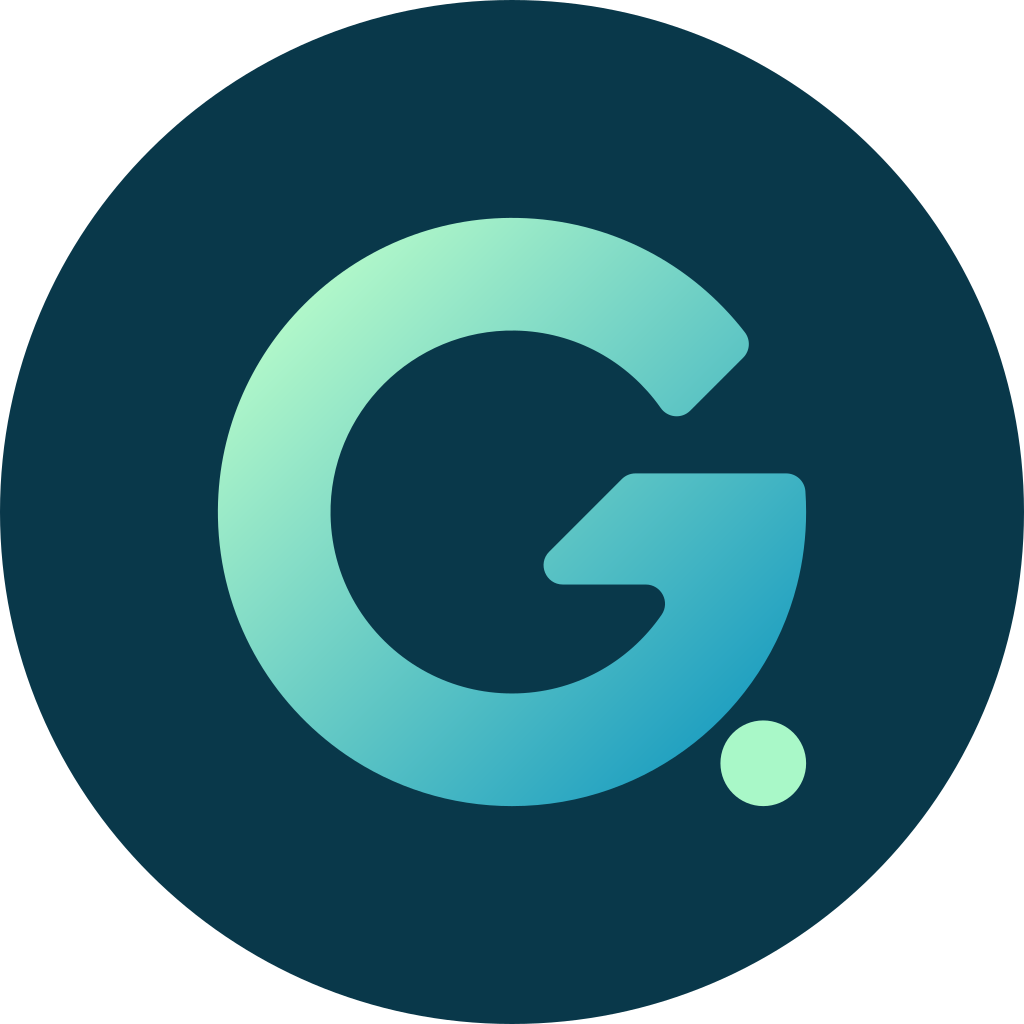
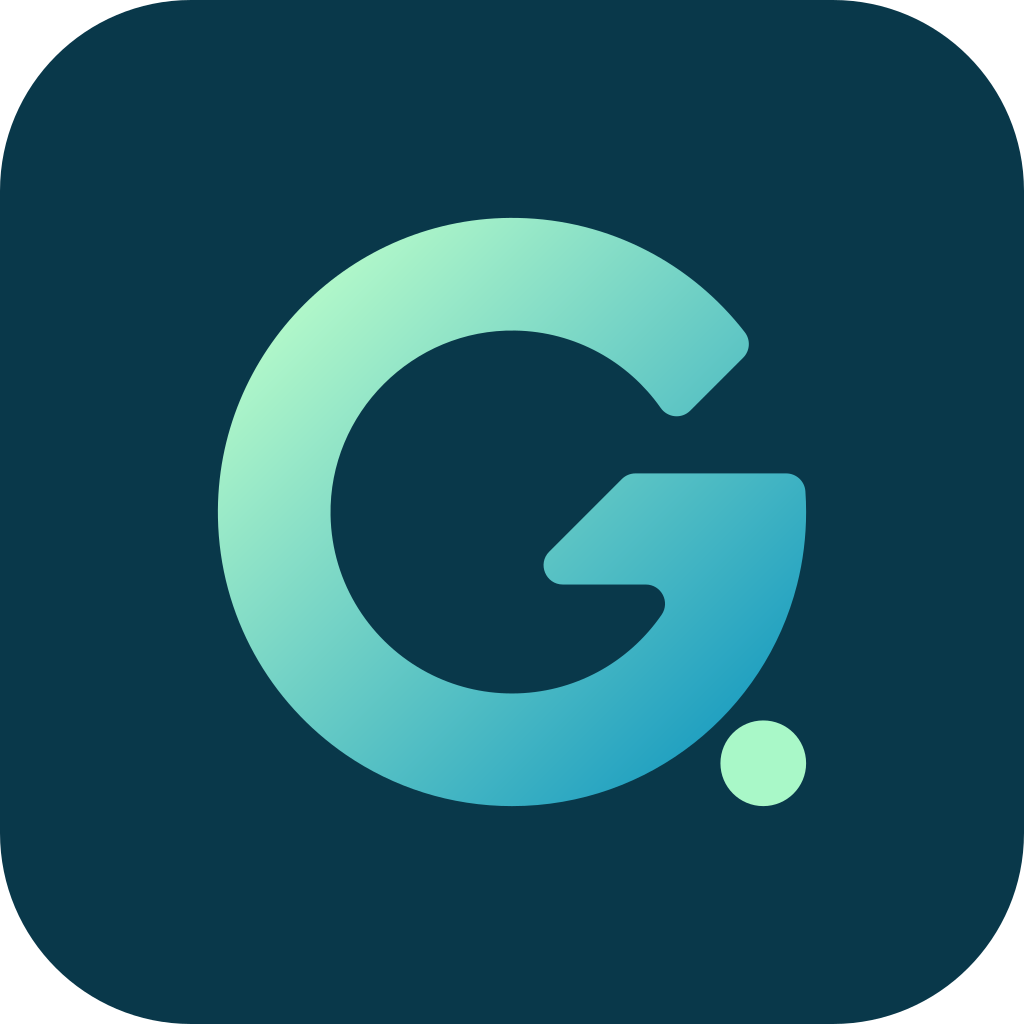
fix: atualiza icone para fundo escuro, padroniza % no pie chart, inverte hierarquia de lancamento e centraliza resumo

diff --git a/app/(app)/lancamentos.tsx b/app/(app)/lancamentos.tsx
@@ -266,21 +266,21 @@ export default function LancamentosScreen() {
         <View style={styles.monthSummaryCard}>
           <View style={styles.monthSummaryCol}>
             <Text style={styles.monthSummaryLabel}>Entradas</Text>
-            <PrivacyValue>
+            <PrivacyValue style={{ alignItems: 'center' }}>
               <Text style={[styles.monthSummaryVal, { color: theme.up }]}>+ R$ {formatMoney(monthIn)}</Text>
             </PrivacyValue>
           </View>
           <View style={styles.monthSummaryDivider} />
           <View style={styles.monthSummaryCol}>
             <Text style={styles.monthSummaryLabel}>Saídas</Text>
-            <PrivacyValue>
+            <PrivacyValue style={{ alignItems: 'center' }}>
               <Text style={[styles.monthSummaryVal, { color: theme.down }]}>− R$ {formatMoney(monthOut)}</Text>
             </PrivacyValue>
           </View>
           <View style={styles.monthSummaryDivider} />
           <View style={styles.monthSummaryCol}>
             <Text style={styles.monthSummaryLabel}>Saldo</Text>
-            <PrivacyValue>
+            <PrivacyValue style={{ alignItems: 'center' }}>
               <Text style={[styles.monthSummaryVal, { color: monthBalance >= 0 ? theme.ink : theme.down }]}>
                 {monthBalance >= 0 ? '+' : '−'} R$ {formatMoney(Math.abs(monthBalance))}
               </Text>
@@ -298,7 +298,6 @@ export default function LancamentosScreen() {
           onChange={(f) => setFilter(f as 'tudo' | TxType)}
         />
       </View>
-
 
       {loading ? (
         <ActivityIndicator color={theme.ink} style={{ marginTop: 40 }} />
@@ -318,13 +317,17 @@ export default function LancamentosScreen() {
                 setActionSheetOpen(true);
               }}
             >
-              <View style={[styles.icon, { backgroundColor: item.color + '30' }]}>
+              <View style={[styles.icon, { backgroundColor: item.color + '25' }]}>
                 <Text style={[styles.iconText, { color: item.color }]}>{item.category.slice(0, 2).toUpperCase()}</Text>
               </View>
               <View style={{ flex: 1 }}>
-                <Text style={styles.rowTitle}>{item.category}</Text>
+                {/* Nome do lançamento em destaque principal */}
+                <Text style={styles.rowTitle} numberOfLines={1}>
+                  {item.description && item.description.trim() ? item.description : item.category}
+                </Text>
+                {/* Categoria em hierarquia mais baixa com a cor correspondente */}
                 <Text style={styles.rowSub}>
-                  {item.description}
+                  <Text style={{ color: item.color, fontWeight: '600' }}>{item.category}</Text>
                   {item.recurring ? ' · recorrente' : ''} · {formatDateLabel(item.occurred_on)}
                 </Text>
               </View>
@@ -342,6 +345,7 @@ export default function LancamentosScreen() {
           )}
         />
       )}
+
 
       {/* FAB — mesmo componente da Home, só sem a opção Boleto (isso fica em Contas) */}
       <FabButton onAddIncome={() => openNewModal('in')} onAddExpense={() => openNewModal('out')} />

diff --git a/app/(app)/index.tsx b/app/(app)/index.tsx
@@ -693,12 +693,16 @@ export default function InicioScreen() {
                 setActionSheetOpen(true);
               }}
             >
-              <View style={[styles.recentIcon, { backgroundColor: t.color + '30' }]}>
+              <View style={[styles.recentIcon, { backgroundColor: t.color + '25' }]}>
                 <Text style={[styles.recentIconText, { color: t.color }]}>{t.category.slice(0, 2).toUpperCase()}</Text>
               </View>
               <View style={{ flex: 1 }}>
-                <Text style={styles.recentRowTitle}>{t.category}</Text>
-                <Text style={styles.recentRowSub}>{t.description} · {formatDateLabel(t.occurred_on)}</Text>
+                <Text style={styles.recentRowTitle} numberOfLines={1}>
+                  {t.description && t.description.trim() ? t.description : t.category}
+                </Text>
+                <Text style={styles.recentRowSub}>
+                  <Text style={{ color: t.color, fontWeight: '600' }}>{t.category}</Text> · {formatDateLabel(t.occurred_on)}
+                </Text>
               </View>
               <View style={styles.recentAmountRow}>
                 <Text style={[styles.recentRowAmount, { color: t.type === 'in' ? theme.up : theme.down }]}>
@@ -710,6 +714,7 @@ export default function InicioScreen() {
                   </Text>
                 </PrivacyValue>
               </View>
+
             </AppPressable>
           ))
         )}

diff --git a/components/PieChart.tsx b/components/PieChart.tsx
@@ -119,12 +119,14 @@ export default function PieChart({ data, size = 216 }: { data: PieSlice[]; size?
               <SvgText
                 x={labelX}
                 y={labelY}
-                fontSize={7}
+                fontSize={7.5}
+                fontWeight="600"
                 fill={theme.ink}
                 textAnchor={anchor}
                 alignmentBaseline="central"
+                letterSpacing={0}
               >
-                {seg.value}%
+                {`${Math.round(seg.value)}%`}
               </SvgText>
             )}
           </G>
@@ -133,5 +135,6 @@ export default function PieChart({ data, size = 216 }: { data: PieSlice[]; size?
     </View>
   );
 }
+
 
 const styles = StyleSheet.create({});

diff --git a/components/PrivacyValue.tsx b/components/PrivacyValue.tsx
@@ -49,7 +49,7 @@ export default function PrivacyValue({ children, style }: { children: ReactNode;
 }
 
 const styles = StyleSheet.create({
-  base: { position: 'relative', alignSelf: 'flex-start' },
+  base: { position: 'relative' },
   clip: { overflow: 'hidden', borderRadius: 6 },
   scrim: {
     backgroundColor: 'rgba(5,34,41,0.72)',
@@ -58,3 +58,4 @@ const styles = StyleSheet.create({
     borderRadius: 6,
   },
 });
+
